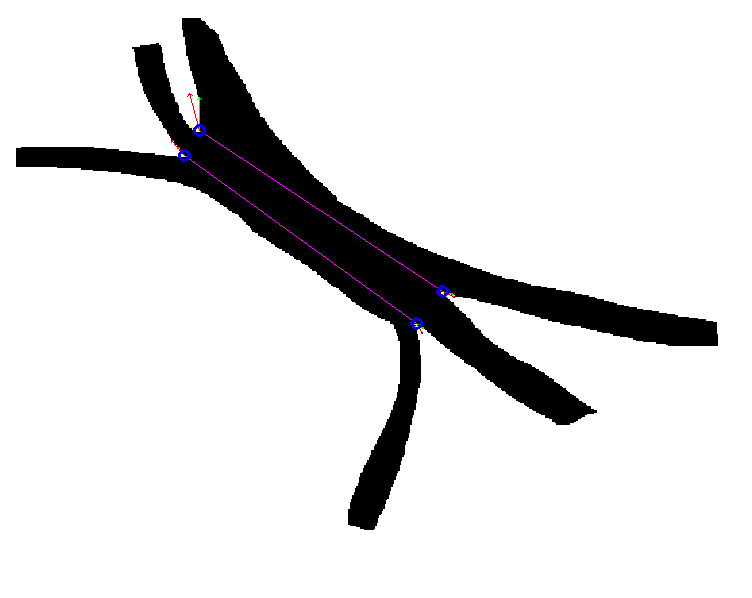
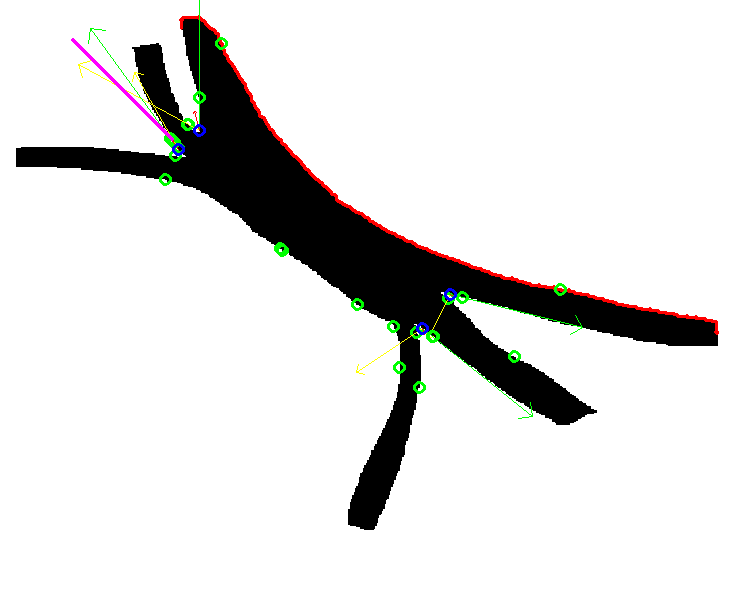
as parallel as possible

diff --git a/prj.cw/junctionpoints/junction.cpp b/prj.cw/junctionpoints/junction.cpp
@@ -161,7 +161,7 @@ void JunctionMat::DrawDividers(std::vector<cv::Point> result,
     result.erase(result.begin() + i_2);
     intersections.erase(intersections.begin() + i_2);
 
-    cv::line(*this, best_1, best_2, cv::Scalar(255, 0, 255), 1);
+    AsParallel(best_2, best_1);
   }
 }
 
@@ -169,8 +169,13 @@ std::vector<cv::Point> JunctionMat::FindJunctionPoints() {
   std::vector<cv::Point> result;
   std::vector<size_t> indices;
   std::vector<cv::Point> intersections;
-
-  int max_radius = 10;
+  auto good_border = FincGoodBorder();
+  for (size_t i = 0; i < good_border.size() - 1; ++i) {
+    auto p1 = good_border[i];
+    auto p2 = good_border[i < good_border.size() - 1 ? i + 1 : 0];
+    cv::arrowedLine(*this, p1, p2, cv::Scalar(0, 0, 255), 2);
+  }
+  int max_radius = 12;
   for (size_t i = 0; i < borderPoints_.size(); ++i) {
     //    cv::Point p1 =
     //        borderPoints_[i - radius_border_ >= 0
@@ -205,10 +210,10 @@ std::vector<cv::Point> JunctionMat::FindJunctionPoints() {
     double angle = std::acos((p1 - p2).dot(p3 - p2) /
                              (cv::norm(p2 - p1) * cv::norm(p3 - p2))) *
                    180 / M_PI;
-//    if (i % 25 == 0) {
-//      cv::arrowedLine(*this, p2, p1, cv::Scalar(0, 255, 0), 1);
-//      cv::arrowedLine(*this, p2, p3, cv::Scalar(0, 255, 255), 1);
-//    }
+    //    if (i % 25 == 0) {
+    //      cv::arrowedLine(*this, p2, p1, cv::Scalar(0, 255, 0), 1);
+    //      cv::arrowedLine(*this, p2, p3, cv::Scalar(0, 255, 255), 1);
+    //    }
 
     if (IsJunction(angle, result, p2) &&
         SameHalfPlane(norm, p1 - p2, p3 - p2)) {
@@ -216,20 +221,26 @@ std::vector<cv::Point> JunctionMat::FindJunctionPoints() {
       indices.push_back(i);
       //      drawInfiniteLine(*this, p1, p3);
       auto cur_inter = findIntersectionsWithPolygon(borderPoints_, p1, p3);
-      cv::Point best_intersection = cur_inter[0];
-      for (const auto& inter : cur_inter) {
-        if (best_intersection.y < inter.y) best_intersection = inter;
+      if (!cur_inter.empty()) {
+        cv::Point best_intersection = cur_inter[0];
+        for (const auto& inter : cur_inter) {
+          if (best_intersection.y < inter.y) best_intersection = inter;
+        }
+        intersections.push_back(best_intersection);
+      } else {
+        result.pop_back();
+        indices.pop_back();
       }
-      intersections.push_back(best_intersection);
-      //      for (const auto& inter : cur_inter) {
-      //        cv::circle(*this, inter, 5, cv::Scalar(0, 0, 255), 2);
-      //      }
-      cv::arrowedLine(*this, p2, p1, cv::Scalar(0, 255, 0), 1);
-      cv::arrowedLine(*this, p2, p3, cv::Scalar(0, 255, 255), 1);
+      for (const auto& inter : cur_inter) {
+        cv::circle(*this, inter, 5, cv::Scalar(0, 255, 0 ), 2);
+      }
+      cv::arrowedLine(*this, p2, p1 + (p1 - p2)*10, cv::Scalar(0, 255, 0), 1);
+      cv::arrowedLine(*this, p2, p3 + (p3 - p2)*10, cv::Scalar(0, 255, 255), 1);
       cv::arrowedLine(*this, p2, p2 + norm, cv::Scalar(0, 0, 255), 1);
     }
-//        cv::arrowedLine(*this, borderPoints_[i],
-//                    borderPoints_[i > 0 ? i - 1 : borderPoints_.size() - 1], cv::Scalar(0, 0, 255), 2);
+    //        cv::arrowedLine(*this, borderPoints_[i],
+    //                    borderPoints_[i > 0 ? i - 1 : borderPoints_.size() -
+    //                    1], cv::Scalar(0, 0, 255), 2);
   }
 
   DrawDividers(result, intersections);
@@ -290,7 +301,7 @@ bool JunctionMat::SameHalfPlane(const cv::Point& norm, const cv::Point& v1,
 
 cv::Point JunctionMat::GetNormVector(const cv::Point& p, const cv::Point& p1,
                                      const cv::Point& p2) {
-  cv::Point norm(p2 + p1);
+  cv::Point norm((p2 + p1) / 2);
   //  norm /= cv::norm(norm);
   //  norm *= 10;
   //  std::vector<int> xAdd = {0, 1, 2, 3, 4};
@@ -320,6 +331,92 @@ cv::Point JunctionMat::GetNormVector(const cv::Point& p, const cv::Point& p1,
   return norm;
 }
 
+std::vector<cv::Point> JunctionMat::FincGoodBorder() {
+  std::vector<std::vector<cv::Point>> semi_result;
+  std::vector<double> len;
+  int j = 0;
+  bool is_adding = false;
+  for (size_t i = 0; i < borderPoints_.size(); ++i) {
+    auto p1 = borderPoints_[i];
+    auto p2 = borderPoints_[i < borderPoints_.size() - 1 ? i + 1 : 0];
+    if ((p2 - p1).x >= 0) {
+      is_adding = true;
+      if (j >= semi_result.size()) {
+        semi_result.push_back(std::vector<cv::Point>());
+        len.push_back(0);
+      }
+      semi_result[j].push_back(p1);
+      len[j] += cv::norm(p2 - p1);
+    } else if (is_adding) {
+      j++;
+      is_adding = false;
+    }
+  }
+
+  double best_len = 0;
+  int best_i = 0;
+  for (int i = 0; i < semi_result.size(); ++i) {
+    if (len[i] > best_len) {
+      best_len = len[i];
+      best_i = i;
+    }
+  }
+  goodBorderPoints_ = semi_result[best_i];
+  return semi_result[best_i];
+
+  //  std::vector<cv::Point> best_result;
+  //  double best_len = 0;
+  //  std::vector<cv::Point> result;
+  //  double res_len = 0;
+  //  int i = 0;
+  //  while (i < semi_result.size()) {
+  //    auto p1 = semi_result[i];
+  //    auto p2 = semi_result[i < semi_result.size() - 1 ? i + 1 : 0];
+  //    if (cv::norm(p2 - p1) < 1000) {
+  //      result.push_back(p1);
+  //      res_len += cv::norm(p2 - p1);
+  //    } else {
+  //      if (res_len > best_len) {
+  //        best_result = result;
+  //        best_len = res_len;
+  //      }
+  //      result.clear();
+  //      res_len = 0;
+  //    }
+  //    i++;
+  //  }
+}
+void JunctionMat::AsParallel(cv::Point p1, cv::Point p2) {
+  std::vector<cv::Point> some = goodBorderPoints_;// {cv::Point (0, 0), cv::Point(100, 100)};
+  int n = some.size();
+  cv::Mat I = cv::Mat::eye(2*n, 2*n, CV_64F);
+
+  cv::Mat A(2, 2*n, CV_64F);
+  for (int i = 0; i < 2*n; ++i) {
+    A.at<double>(i % 2, i) = 1;
+    A.at<double>((i + 1) % 2, i) = 0;
+  }
+
+  cv::Mat P(n*2, 1, CV_64F);
+  for (int i = 0; i < n; ++i) {
+    P.at<double>(i*2, 0) = -some[i].x;
+    P.at<double>(i*2 + 1, 0) = -some[i].y;
+  }
+  cv::Mat M(2, 1, CV_64F);
+  M.at<double>(0, 0) = p2.x - p1.x;
+  M.at<double>(1, 0) = p2.y - p1.y;
+  cv::Mat AT = A.t();
+
+  cv::Mat X = (-I + AT * A / n) * P + AT * M / n;
+  std::vector<cv::Point> result;
+  for (int i = 0; i < n; ++i) {
+    result.emplace_back(X.at<double>(i*2, 0), X.at<double>(i*2 + 1, 0));
+  }
+  for (int i = 0; i < result.size() - 1; ++i) {
+    cv::line(*this, result[i], result[i + 1], cv::Scalar(255, 0, 255), 2);
+  }
+}
+
 void processImagesInFolder(const std::string& folderPath,
                            const std::string& outputFolderPath,
                            const std::string& combinedImagePath) {
@@ -327,7 +424,7 @@ void processImagesInFolder(const std::string& folderPath,
   for (const auto& entry : std::filesystem::directory_iterator(folderPath)) {
     if (entry.is_regular_file() && (entry.path().extension() == ".jpg" ||
                                     entry.path().extension() == ".png")) {
-      JunctionMat junctionMat(entry.path().string(), 5, 140);
+      JunctionMat junctionMat(entry.path().string(), 10, 120);
 
       if (junctionMat.empty()) {
         std::cerr << "Error loading image: " << entry.path().string()

diff --git a/prj.cw/junctionpoints/junction.h b/prj.cw/junctionpoints/junction.h
@@ -21,6 +21,7 @@ class JunctionMat : public cv::Mat {
   int radius_border_;
   int angle_border_;
   std::vector<cv::Point> borderPoints_;
+  std::vector<cv::Point> goodBorderPoints_;
 
   cv::Point GetNormVector(const cv::Point& p, const cv::Point& p1,
                           const cv::Point& p2);
@@ -33,5 +34,8 @@ class JunctionMat : public cv::Mat {
 
   void DrawDividers(std::vector<cv::Point> result,
                     std::vector<cv::Point> intersections);
+
+  std::vector<cv::Point> FincGoodBorder();
+  void AsParallel(cv::Point p1, cv::Point p2);
 };
 #endif  // MIPT2024S_3_JUNCTION_H

diff --git a/prj.cw/README.md b/prj.cw/README.md
@@ -71,7 +71,23 @@ $W(i, j) = \frac{min(m_i l_i, m_j l_j)}{max(m_i l_i, m_j l_j)}$.
 неточности поиска точек перегиба, но тем не менее уже имеется какой-то результат.
 
 <p align="center">
-  <img src="images/resultcombo/combined_result.png" width="250" />
+  <img src="images/resultcombo/combined_result_2.png" width="750" />
+</p>
+
+
+### Почти параллельная линия разреза
+Для построение почти параллельной линии будем поступать следующим образом:
+1. Ищем нижнюю границу объекта. Для этого пройдемся по границе и будем выбирать те вектора, которые имеют 
+неотрицательную координату по x.
+2. Далее воспользуемся алгоритмом из статьи для построения линии разреза.
+<p align="center">
+  <img src="images/other/lines.png" width="750" />
+</p>
+<p align="center">
+  <img src="images/other/line_formula.png" width="750" />
+</p>
+<p align="center">
+  <img src="images/other/formula.png" width="750" />
 </p>
 
 ---
